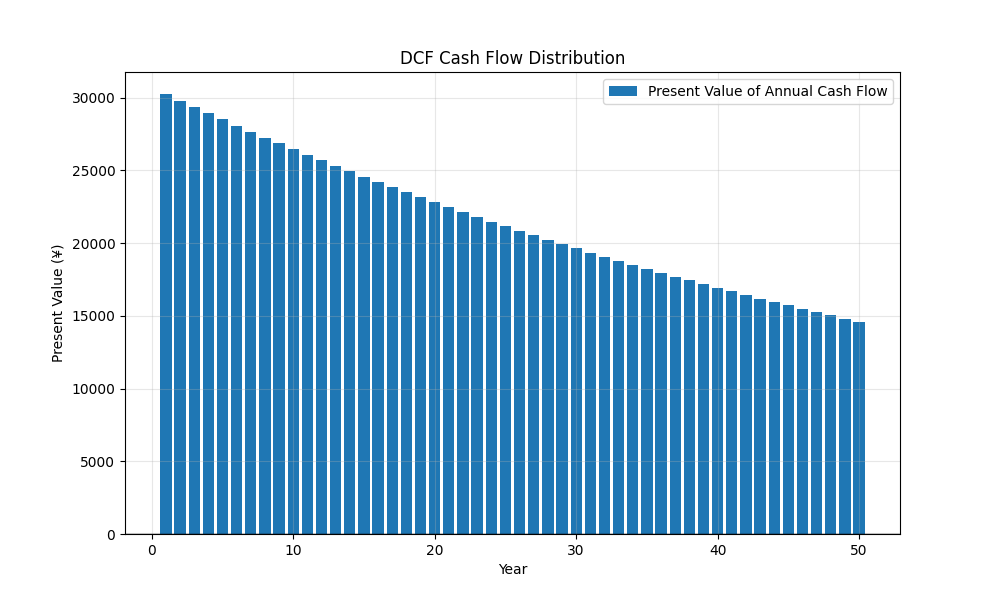
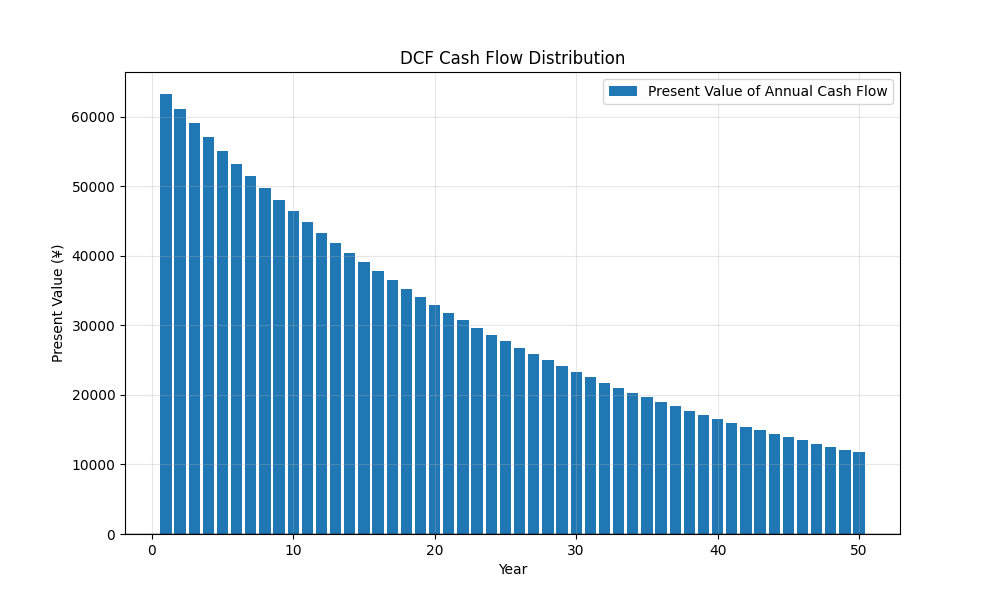
Update dcf data

diff --git a/real_estate_dcf/dcf_calculator.py b/real_estate_dcf/dcf_calculator.py
@@ -135,7 +135,6 @@ class RealEstateDCF:
             if not os.path.exists('reports'):
                 os.makedirs('reports')
             plt.savefig('reports/dcf_chart.png')
-        plt.show()
         
         if save_markdown:
             self._generate_markdown_report(total_value, yearly_pvs, terminal_value_pv)
@@ -197,14 +196,14 @@ def main():
     
     # 设置参数（示例数据）
     dcf.set_parameters(
-        rental_income=2600*12,        # 年租金收入：7.2万
+        rental_income=5500*12,        # 年租金收入：7.2万
         operating_expenses=500,     # 年运营支出：0.1万
         growth_rate=0.0,            # 增长率：0%
-        discount_rate=0.015,        # 贴现率：4.5%
+        discount_rate=0.035,        # 贴现率：4.5%
         projection_years=50,        # 预测期：50年
         terminal_cap_rate=0.05,     # 最终资本化率：5%
         property_tax_rate=0.0,    # 房产税率：1.2%
-        property_value=2600*12*20      # 房产评估价值：144万（约为年租金的20倍）
+        property_value=5500*12*20      # 房产评估价值：144万（约为年租金的20倍）
     )
     
     # 生成报告

diff --git a/real_estate_dcf/reports/dcf_report.md b/real_estate_dcf/reports/dcf_report.md
@@ -1,81 +1,81 @@
 # 房地产DCF估值分析报告
-*生成时间: 2025-01-08 23:41:02*
+*生成时间: 2025-01-10 23:24:43*
 
 ## 基本参数
 ### 收入与支出
-- 初始年租金收入: ¥31,200.00
+- 初始年租金收入: ¥66,000.00
 - 初始年运营支出: ¥500.00
 
 ### 房产税信息
-- 房产评估价值: ¥624,000.00
+- 房产评估价值: ¥1,320,000.00
 - 房产税率: 0.0%
 - 年度房产税: ¥0.00
 
 ### 其他参数
 - 增长率: 0.0%
-- 贴现率: 1.5%
+- 贴现率: 3.5%
 - 预测年数: 50年
 - 最终资本化率: 5.0%
 
 ## 估值结果
-- 现金流现值总和: ¥1,074,490.42
-- 终值现值: ¥291,652.87
-- **总价值: ¥1,366,143.30**
+- 现金流现值总和: ¥1,536,342.97
+- 终值现值: ¥234,559.92
+- **总价值: ¥1,770,902.89**
 
 ## 现金流分析
 ### 年度现金流现值表
 | 年份 | 现金流现值 |
 |------|------------|
-| 1 | ¥30,246.31 |
-| 2 | ¥29,799.32 |
-| 3 | ¥29,358.93 |
-| 4 | ¥28,925.06 |
-| 5 | ¥28,497.59 |
-| 6 | ¥28,076.45 |
-| 7 | ¥27,661.52 |
-| 8 | ¥27,252.73 |
-| 9 | ¥26,849.98 |
-| 10 | ¥26,453.18 |
-| 11 | ¥26,062.25 |
-| 12 | ¥25,677.09 |
-| 13 | ¥25,297.63 |
-| 14 | ¥24,923.77 |
-| 15 | ¥24,555.44 |
-| 16 | ¥24,192.55 |
-| 17 | ¥23,835.03 |
-| 18 | ¥23,482.79 |
-| 19 | ¥23,135.75 |
-| 20 | ¥22,793.84 |
-| 21 | ¥22,456.99 |
-| 22 | ¥22,125.11 |
-| 23 | ¥21,798.14 |
-| 24 | ¥21,476.00 |
-| 25 | ¥21,158.62 |
-| 26 | ¥20,845.93 |
-| 27 | ¥20,537.86 |
-| 28 | ¥20,234.35 |
-| 29 | ¥19,935.32 |
-| 30 | ¥19,640.71 |
-| 31 | ¥19,350.45 |
-| 32 | ¥19,064.48 |
-| 33 | ¥18,782.74 |
-| 34 | ¥18,505.16 |
-| 35 | ¥18,231.69 |
-| 36 | ¥17,962.25 |
-| 37 | ¥17,696.80 |
-| 38 | ¥17,435.27 |
-| 39 | ¥17,177.61 |
-| 40 | ¥16,923.75 |
-| 41 | ¥16,673.65 |
-| 42 | ¥16,427.24 |
-| 43 | ¥16,184.47 |
-| 44 | ¥15,945.29 |
-| 45 | ¥15,709.65 |
-| 46 | ¥15,477.49 |
-| 47 | ¥15,248.76 |
-| 48 | ¥15,023.40 |
-| 49 | ¥14,801.38 |
-| 50 | ¥14,582.64 |
+| 1 | ¥63,285.02 |
+| 2 | ¥61,144.95 |
+| 3 | ¥59,077.25 |
+| 4 | ¥57,079.47 |
+| 5 | ¥55,149.24 |
+| 6 | ¥53,284.29 |
+| 7 | ¥51,482.41 |
+| 8 | ¥49,741.46 |
+| 9 | ¥48,059.38 |
+| 10 | ¥46,434.18 |
+| 11 | ¥44,863.94 |
+| 12 | ¥43,346.81 |
+| 13 | ¥41,880.97 |
+| 14 | ¥40,464.71 |
+| 15 | ¥39,096.34 |
+| 16 | ¥37,774.24 |
+| 17 | ¥36,496.85 |
+| 18 | ¥35,262.65 |
+| 19 | ¥34,070.20 |
+| 20 | ¥32,918.07 |
+| 21 | ¥31,804.89 |
+| 22 | ¥30,729.37 |
+| 23 | ¥29,690.21 |
+| 24 | ¥28,686.19 |
+| 25 | ¥27,716.13 |
+| 26 | ¥26,778.87 |
+| 27 | ¥25,873.30 |
+| 28 | ¥24,998.36 |
+| 29 | ¥24,153.00 |
+| 30 | ¥23,336.24 |
+| 31 | ¥22,547.09 |
+| 32 | ¥21,784.63 |
+| 33 | ¥21,047.95 |
+| 34 | ¥20,336.18 |
+| 35 | ¥19,648.48 |
+| 36 | ¥18,984.04 |
+| 37 | ¥18,342.07 |
+| 38 | ¥17,721.81 |
+| 39 | ¥17,122.52 |
+| 40 | ¥16,543.50 |
+| 41 | ¥15,984.05 |
+| 42 | ¥15,443.53 |
+| 43 | ¥14,921.29 |
+| 44 | ¥14,416.70 |
+| 45 | ¥13,929.18 |
+| 46 | ¥13,458.15 |
+| 47 | ¥13,003.04 |
+| 48 | ¥12,563.32 |
+| 49 | ¥12,138.48 |
+| 50 | ¥11,728.00 |
 
 
 ### 现金流分布图
